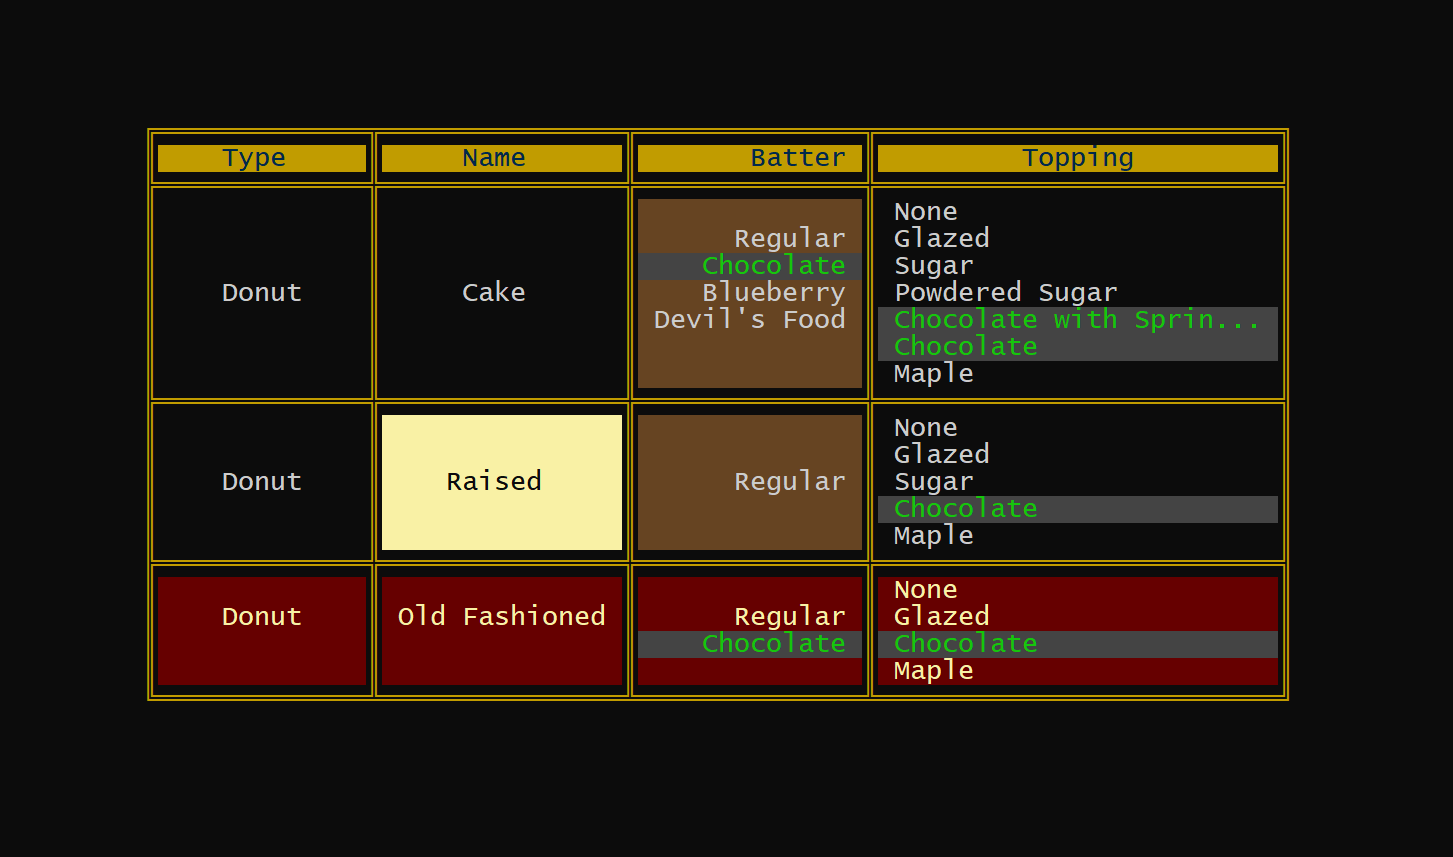
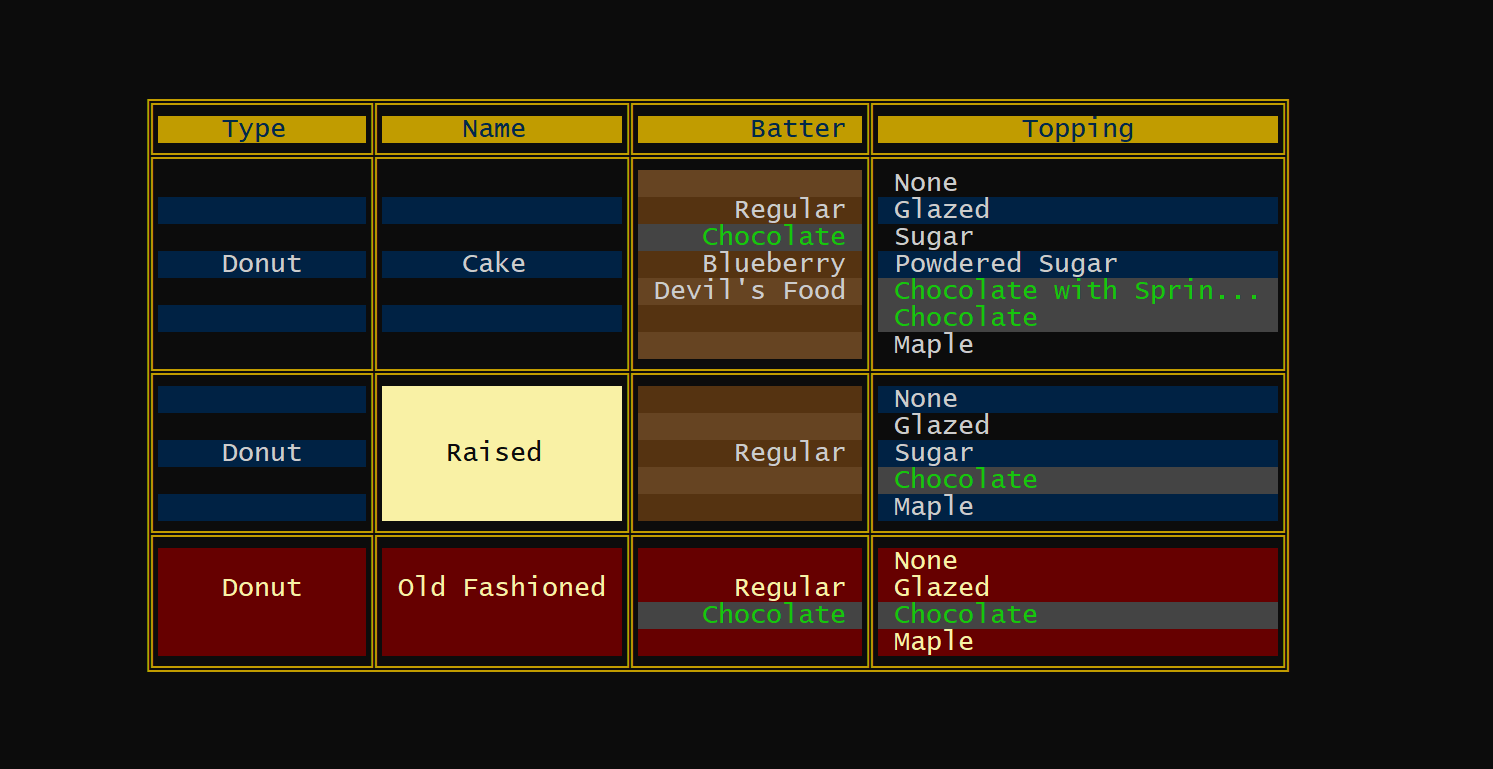
100% coverage + updated docs

diff --git a/test/tableString.test.js b/test/tableString.test.js
@@ -392,7 +392,7 @@ describe("tableString", function () {
       headerFrameChalk: chalk.bgHex("#ff6600").black(" "),
     }
   );
-  
+
   test(
     "Right alignment for values and headings",
     "┌───┬─────────┐\n" +
@@ -501,17 +501,26 @@ describe("tableString", function () {
     }
   );
   test(
-    "Object with toString()",
-    "┌────────┐\n" +
-      "│ person │\n" +
-      "├────────┤\n" +
-      "│ a b    │\n" +
-      "│ c d    │\n" +
-      "└────────┘",
-    flatten([
-      { person: new Person("a", "b") },
-      { person: new Person("c", "d") },
-    ])
+    "row chalk",
+    "┌───────────────────┬──────────────────┬──────────┐\n" +
+      "│ person.first name │ person.last name │ ts:chalk │\n" +
+      "├───────────────────┼──────────────────┼──────────┤\n" +
+      "│\x1B[48;2;68;68;68m\x1B[32m a                 \x1B[39m\x1B[49m│\x1B[48;2;68;68;68m\x1B[32m b                \x1B[39m\x1B[49m│\x1B[48;2;68;68;68m\x1B[32m\x1B[48;2;68;68;68m\x1B[32m          \x1B[39m\x1B[49m│\n" +
+      "│\x1B[48;2;51;51;51m\x1B[33m c                 \x1B[39m\x1B[49m│\x1B[48;2;51;51;51m\x1B[33m d                \x1B[39m\x1B[49m│\x1B[48;2;51;51;51m\x1B[33m\x1B[48;2;51;51;51m\x1B[33m          \x1B[39m\x1B[49m│\n" +
+      "└───────────────────┴──────────────────┴──────────┘",
+    flatten(
+      [
+        {
+          person: new Person2("a", "b"),
+          "ts:chalk": chalk.bgHex("#444444").green(" "),
+        },
+        {
+          person: new Person2("c", "d"),
+          "ts:chalk": chalk.bgHex("#333333").yellow(" "),
+        },
+      ],
+      Infinity
+    )
   );
   test(
     "alternate chalk 1",

diff --git a/README.md b/README.md
@@ -119,7 +119,7 @@ flatten([{ a: { b: "c" } }]) === [{ a: { b: "c" } }] // objectDepth not specifie
 flatten([{ a: { b: "c" } }], 1) === [{ "a.b": "c" }] // nested object's property is replaced by a new column
 flatten([{ a: { b: { c: "d" } } }], 1) === [{ "a.b": { c: "d" } }] // only outer object is replaced with objectDepth === 1
 flatten([{ a: { b: { c: "d" } } }], 2) === [{ "a.b.c": "d" }] // also inner object is replaced with objectDepth === 2
-flatten([{ a: { b: "c" }, "a.b": "exists" }], 1) // Error: Flattening object at depth 1: property "a.b" already exists
+flatten([{ a: { b: "c" }, "a.b": "exists" }], 1) // Error: Flattening object: property "a.b" already exists
 ```
 
 ### frame.characters
@@ -127,10 +127,11 @@ flatten([{ a: { b: "c" }, "a.b": "exists" }], 1) // Error: Flattening object at 
 By default, the border of the table and the lines are 'drawn' with graphical single line characters: '┌', '─', '┐' ...\
 You can change this by assigning to `frame.characters`. Predefined values are:
 ```js
-frame.characters = default.characters // '┌', '─', '┐' ...
+frame.characters = standard.characters // '┌', '─', '┐' ...
 frame.characters = double.characters  // '╔', '═', '╗' ...
 frame.characters = ascii.characters   // '.', '-', '.' ...
 frame.characters = stars.characters   // '*', '*', '*' ...
+frame.characters = space.characters   // ' ', ' ', ' ' ...
 ```
 To define your characters, assign your own object to `frame.characters` 
 ```js
@@ -150,7 +151,11 @@ In general, `tableString` is called with an array[^1]. The elements of the array
 
 If the array contains primitive values, they are displayed in a column called "Values". This is true for strings, booleans, numbers and bigints.  The other primitives, i.e. symbol, null and undefined, are ignored. Non primitive values are objects. These objects have properties. Each property defines a column of the table and the property value of an row's object is the value in the column for that row. Columns values should be primitive values. More complex values are likely show as `"[object Object]"`. If they define a `toString()` function, the result of the `toString()` function will be used to show the object. **String values with newlines break the table layout**. To use multiline strings as values, first [`flatten` the table](#flatten). The [`flatten` function](#flatten) can also be used to replace objects that show as `"[object Object]"` with columns of their attributes.
 
-There is one special property called "**`ts:horizontalLine`**". If the "`ts:horizontalLine`" property is defined in the object for a row, e.g. `{ .... "ts:horizontalLine": true}`, an horizontal line is drawn after that row. 
+There are to special property called "**`ts:horizontalLine`**" and "**`ts:chalk`**". 
+
+If the "`ts:horizontalLine`" property is defined in the object for a row, e.g. `{ .... "ts:horizontalLine": true}`, an horizontal line is drawn after that row. 
+
+If the "`ts:chalk`" property is defined in the object for a row, e.g. `{ .... "ts:chalk": "\x1B[37m\x1B[40m\x1B[49m\x1B[39m"}`, this chalk is used for the row with precedence over [table chalks](#chalks) and [column chalks](#chalk). 
 
   
 
@@ -170,6 +175,7 @@ An entry of the columnOptions array defines up to 5 values for a column:
 * padding
 * align
 * alignHeading 
+* chalk
 Of these values, only the `name` is mandatory.
 
 If no column options are specified, the table shows all columns available in the underlying data. 
@@ -218,6 +224,14 @@ Possible values are `left`, `center`, and `right`. Sets the alignment for the va
 Possible values are `left`, `center`, and `right`. If the [`align` column option](#align) is defined, this will also align the heading. The option `alignHeading` allows a different alignment of the heading. 
 The default is `center` if not overridden by the [table option `alignTableHeadings`](#aligntableheadings).
 
+##### chalk
+
+A chalk for the table column, see the [section about table chalks](#chalks) for the format. A value given for the column takes precedence over `tableChalk`- 
+
+##### alternateChalk
+
+A chalk for every other row in the table column. A value given for the column takes precedence over `alternateTableChalk`.
+
 #### Shortened Notation
 
 Often, you do not need to specify all options for a column. For these cases, two abbreviations are supported:
@@ -231,7 +245,7 @@ All forms can be mixed: `[ { prop1: "Column Name" }, "prop2", { name: "prop3", a
 
 While column options refer to individual columns, there are a few options that affect the entire table: 
 * alignTableHeadings 
-* frameChalk, headerChalk, alternativeChalk
+* Table, frame, and header chalks
 * propertyCompareFunction
 * index
 
@@ -239,18 +253,24 @@ While column options refer to individual columns, there are a few options that a
 
 Possible values are `left`, `center`, and `right`. This overrides the default "center" alignment of column headings. The `align` and `alignHeading` values for individual columns take precedence over this option.
 
-#### frameChalk
+#### Chalks
 
-A string. Want an alternative color for the table's border? Just define a string value with opening and closing ANSI color escapes. 
-As an example: `{ frameChalk: "\x1B[37m\x1B[40m \x1B[49m\x1B[39m"}`
+`tableString`supports various options to color tables and their borders. The values for the options are strings with opening and closing ANSI color escapes.
 
-#### headerChalk
+For example: `{ tableChalk: "\x1B[37m\x1B[40m\x1B[49m\x1B[39m" }`
 
-Specific setting for the header rows. Default is frameChalk.
 
-#### alternativeChalk
+The options are:
 
-Alternative chalk for every second table row. Default is frameChalk.
+ Name | Purpose 
+--|--
+`tableChalk` | Chalk for the content of the table
+`alternateTableChalk`  | If defined, use this for every second row
+`frameChalk`| Chalk for the frame of the table
+`alternateFrameChalk` | If defined, use this for every second row
+`headerChalk` | Chalk for the header, defaults to `tableChalk`
+`headerFrameChalk` | Chalk for the tables frame in the header rows, defaults to `frameChalk` 
+
 
 #### propertyCompareFunction
 
@@ -264,7 +284,7 @@ An array of values. To add an index column, define values for that column. This 
 
 The examples for [the `index` table option](#index) also include an example for a computed option value: `[...data.keys()]` computes an index from the data array. There are other examples where using functions for option values greatly simplifies configuration and improves readability. 
 
-For example, [the table option `frameChalk`](#framechalk) could also be set with the chalk package as follows: `{ frameChalk: chalk.red.bgBlue("x") }`. Here the string itself is not important, but it should have a non-zero length. Otherwise, chalk optimizes the colors away.   
+For example, [the table option `tableChalk`](#chalks) could also be set with the chalk package as follows: `{ tableChalk: chalk.red.bgBlue("x") }`. Here the string itself is not important, but it should have a non-zero length. Otherwise, chalk optimizes the colors away.   
 
 As another example, if you just want the columns to show up in alphabetical order: \
 `tableString(data = [{ z: 3, y: 4, x:2 }]), [...Object.keys(data[0])].sort())` renders as
